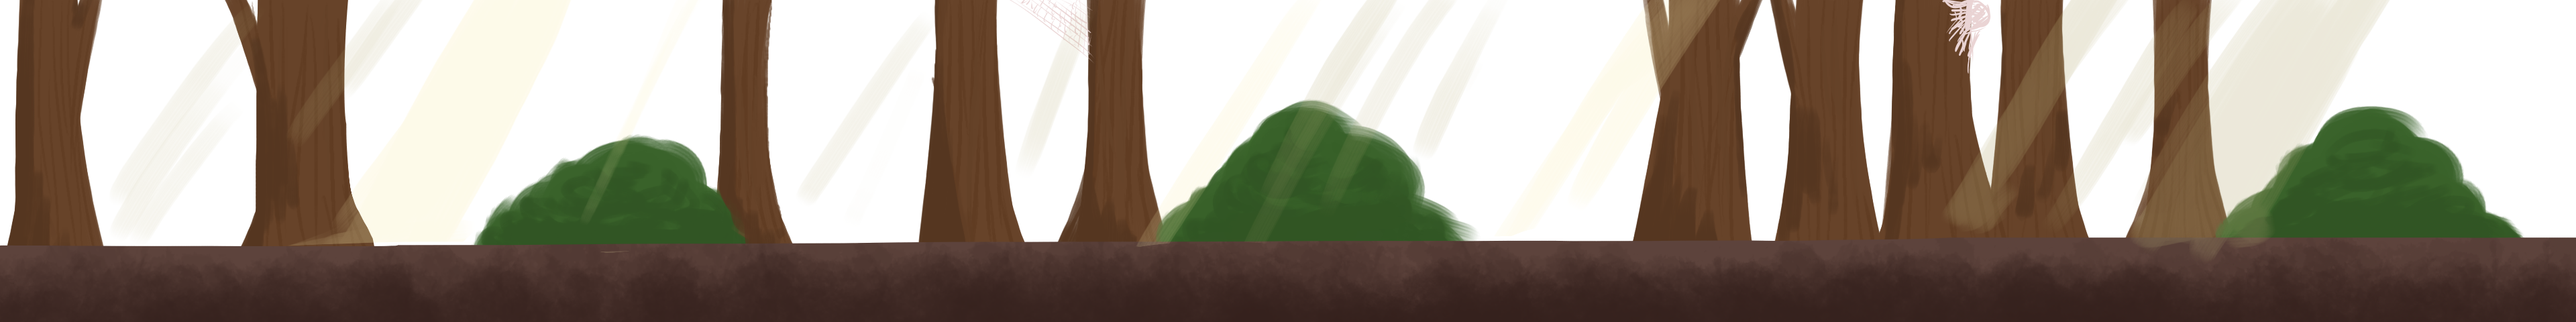
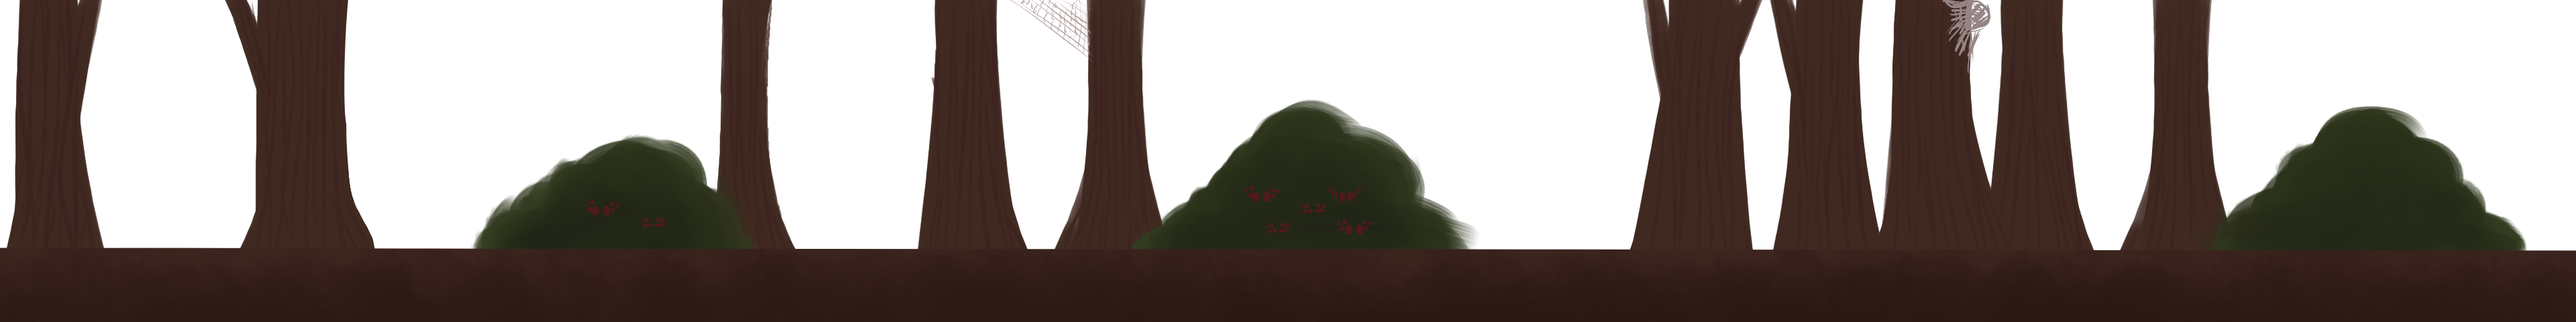
Updated forset assets

diff --git a/src/scenes/Forest.js b/src/scenes/Forest.js
@@ -30,7 +30,7 @@ class Forest extends Phaser.Scene {
         this.background = this.add.tileSprite(0, 0, 3840, 480, 'background').setOrigin(0, 0); 
         this.midground = this.add.tileSprite(0, 0, 3840, 480, 'midground').setOrigin(0, 0); 
         this.foreground = this.add.tileSprite(0, 0, 3840, 480, 'foreground').setOrigin(0, 0); 
-        //this.vig = this.add.tileSprite(0, 0, 3840, 480, 'vignette').setOrigin(0, 0); 
+        this.vig = this.add.tileSprite(0, 0, 3840, 480, 'vignette').setOrigin(0, 0); 
 
         // this acts as an invisible box so that the player doesnt get pushed off screen
         this.pH = this.physics.add.image(-100, 470, 'pH').setOrigin(0,0);
